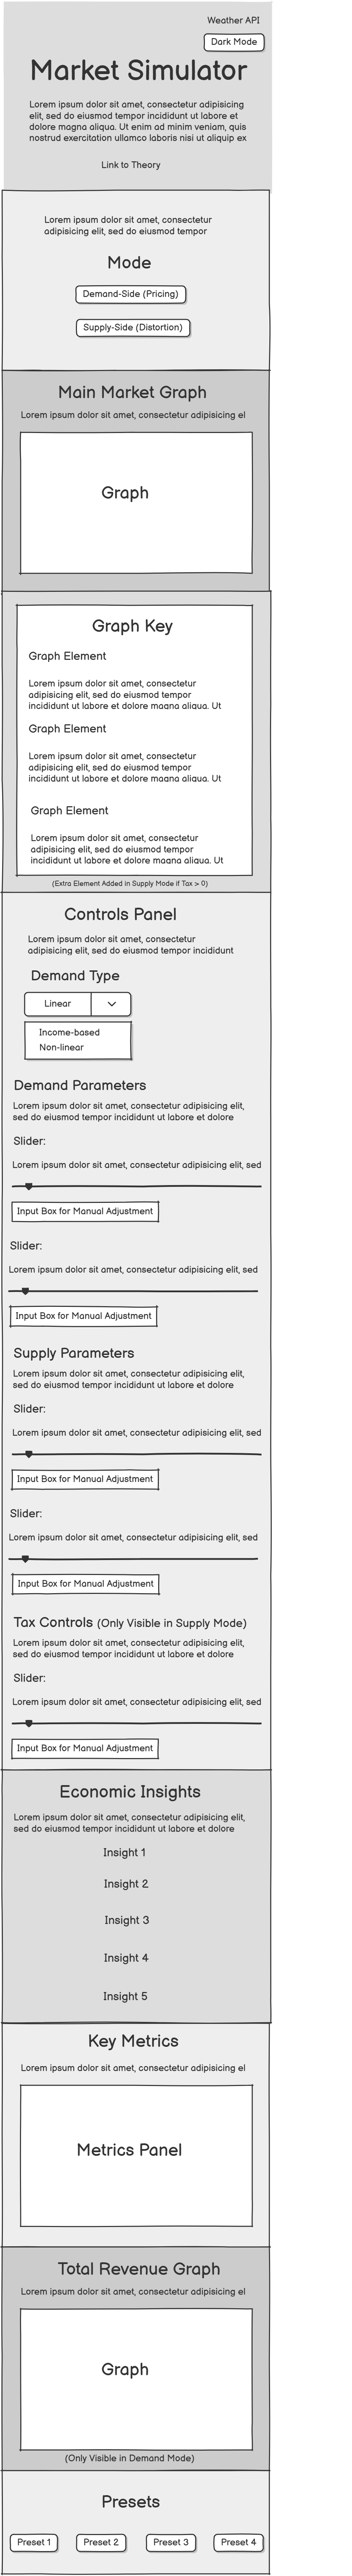
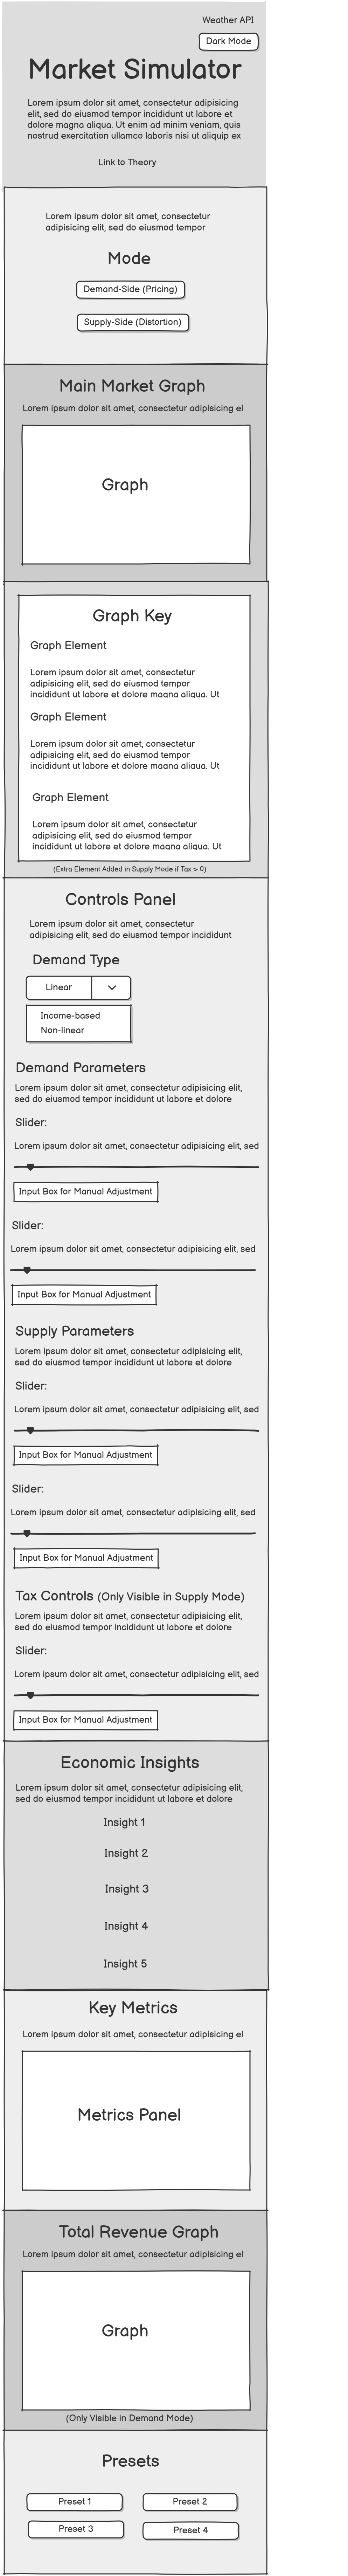
Adjusted Layout for Mobile

Changed region(s): [[0.0, 0.0, 0.7895, 0.9997], [0.0, 0.0, 0.0304, 0.0312]]

diff --git a/index.html b/index.html
@@ -54,122 +54,8 @@
                                     welfare areas
                                     dynamically.</p>
                                 <canvas id="marketCanvas" width="600" height="400"></canvas>
+                                <div class="insights-key" aria-hidden="false"></div>
                                 <section class="insights-panel">
-                                    <div class="insights-key" aria-hidden="false"></div>
-                                    <section class="controls-panel mobile-controls">
-                                        <h2 class="section-heading">Controls</h2>
-                                        <p>Use these controls to adjust parameters and observe how the market changes in
-                                            real
-                                            time.</p>
-                                        <div class="demand-controls">
-                                            <div class="demand-type">
-                                                <label for="demandType">Demand Type:</label>
-                                                <p>Select the type of demand curve to model different consumer
-                                                    behaviours.</p>
-                                                <select id="demandType">
-                                                    <option value="linear">Linear</option>
-                                                    <option value="income">Income-based</option>
-                                                    <option value="nonlinear">Non-linear</option>
-                                                </select>
-                                            </div>
-                                            <div class="demand-parameters">
-                                                <h3>Demand Parameters</h3>
-                                                <p> Adjust these variables to see how outcomes respond to changing market conditions on the demand side.
-                                                </p>
-                                                <div class="demand-linear active">
-                                                    <div class="slider-group">
-                                                        <label for="a">a:</label>
-                                                        <p class="param-desc">Vertical intercept — approximate maximum
-                                                            willingness to pay.</p>
-                                                        <input type="range" id="a" min="0" max="100" value="50">
-                                                        <input type="number" id="aValue" value="50">
-                                                    </div>
-                                                    <div class="slider-group">
-                                                        <label for="b">b: </label>
-                                                        <p class="param-desc">Slope / price sensitivity — higher values
-                                                            make demand more responsive to price.</p>
-                                                        <input type="range" id="b" min="0" max="10" step="0.1"
-                                                            value="1">
-                                                        <input type="number" id="bValue" value="1">
-                                                    </div>
-                                                </div>
-                                                <div class="demand-income">
-                                                    <div class="slider-group">
-                                                        <label for="income">Income (I):</label>
-                                                        <p class="param-desc">Average consumer income used in
-                                                            income-based demand.</p>
-                                                        <input type="range" id="income" min="0" max="1000" step="10"
-                                                            value="500">
-                                                        <input type="number" id="incomeValue" class="value-input"
-                                                            min="0" max="1000" step="10" value="500">
-                                                    </div>
-                                                    <div class="slider-group">
-                                                        <label for="k">Preference Share (k):</label>
-                                                        <p class="param-desc">Share parameter controlling how strongly
-                                                            income affects demand.</p>
-                                                        <input type="range" id="k" min="0" max="1" step="0.05"
-                                                            value="0.5">
-                                                        <input type="number" id="kValue" class="value-input" min="0"
-                                                            max="1" step="0.05" value="0.5">
-                                                    </div>
-                                                </div>
-                                                <div class="demand-nonlinear">
-                                                    <div class="slider-group">
-                                                        <label for="aNonlinear">Scale (a):</label>
-                                                        <p class="param-desc">Scale parameter for nonlinear demand;
-                                                            shifts the curve horizontally.</p>
-                                                        <input type="range" id="aNonlinear" min="0" max="100" step="1"
-                                                            value="50">
-                                                        <input type="number" id="aNonlinearValue" class="value-input"
-                                                            min="0" max="100" step="1" value="50">
-                                                    </div>
-                                                    <div class="slider-group">
-                                                        <label for="bNonlinear">Price Sensitivity (b):</label>
-                                                        <p class="param-desc">Controls curvature; higher values increase
-                                                            sensitivity in nonlinear demand.</p>
-                                                        <input type="range" id="bNonlinear" min="0" max="1" step="0.05"
-                                                            value="0.2">
-                                                        <input type="number" id="bNonlinearValue" class="value-input"
-                                                            min="0" max="1" step="0.05" value="0.2">
-                                                    </div>
-                                                </div>
-                                            </div>
-                                        </div>
-                                        <div class="supply-controls">
-                                            <div class="supply-parameters">
-                                                <h3>Supply Parameters</h3>
-                                                <p>Adjust these variables to see how outcomes respond to changing market
-                                                    conditions on the supply side.</p>
-                                                <div class="slider-group">
-                                                    <label for="c">c:</label>
-                                                    <p class="param-desc">Supply intercept — baseline price component
-                                                        for the supply curve.</p>
-                                                    <input type="range" id="c" min="0" max="100" value="0">
-                                                    <input type="number" id="cValue" value="0">
-                                                </div>
-                                                <div class="slider-group">
-                                                    <label for="d">d: </label>
-                                                    <p class="param-desc">Supply slope — how much quantity supplied
-                                                        responds to price.</p>
-                                                    <input type="range" id="d" min="0" max="5" step="0.1" value="1">
-                                                    <input type="number" id="dValue" value="1">
-                                                </div>
-                                            </div>
-                                            <div class="tax-controls supply-only">
-                                                <h3>Tax Controls</h3>
-                                                <p>Apply a tax to see how it affects prices, quantities, and efficiency.
-                                                </p>
-                                                <div class="slider-group">
-                                                    <label for="t">Tax (t):</label>
-                                                    <p class="param-desc">Per-unit tax applied to the market; raises
-                                                        consumer price and/or reduces producer price.</p>
-                                                    <input type="range" id="t" min="0" max="50" step="0.1" value="0">
-                                                    <input type="number" id="tValue" min="0" max="50" step="0.1"
-                                                        value="0">
-                                                </div>
-                                            </div>
-                                        </div>
-                                    </section>
                                     <h2 class="section-heading">Economic Insights</h2>
                                     <p>Automated insights explain the economic meaning of the results shown above.</p>
                                     <div class="insights-content"></div>

diff --git a/assets/css/style.css b/assets/css/style.css
@@ -131,6 +131,7 @@ canvas {
     margin-top: 20px;
     margin-left: auto;
     margin-right: auto;
+    margin-bottom: 30px;
 
     border: 1px solid #e2e8f0;
     border-radius: 8px;
@@ -689,33 +690,54 @@ body.dark-mode small {
     color: #cbd5e1 !important;
 }
 
-/* =========================================================
-   MOBILE CONTROLS
-========================================================= */
-
-.mobile-controls {
-    display: none !important;
-}
-
-@media (max-width: 991px) {
-    .mobile-controls {
-        display: block !important;
-    }
-
-    .main-section > .main-grid .col-lg-4 .controls-panel {
-        display: none !important;
-    }
-}
-
-@media (max-width: 991px) {
-    .canvas-text {
-        display: none;
-    }
-}
-
 body.dark-mode .weather-box {
     background: transparent !important;
     border: none !important;
     box-shadow: none !important;
     padding: 0 !important;
+}
+
+.insights-panel {
+    margin-top: 10px;
+    padding-top: 0;
+}
+
+@media (max-width: 991px) {
+    .row.flex-lg-row-reverse {
+        display: flex;
+        flex-direction: column;
+    }
+
+    .col-lg-8,
+    .col-lg-4 {
+        width: 100%;
+    }
+
+    .graph-panel {
+        display: flex;
+        flex-direction: column;
+    }
+
+    .canvas-text {
+        order: 1;
+    }
+
+    #marketCanvas {
+        order: 2;
+    }
+
+    .insights-key {
+        order: 3;
+        margin-top: 12px;
+        margin-bottom: 16px;
+    }
+
+    .controls-panel {
+        margin-top: 0;
+        margin-bottom: 28px;
+    }
+
+    .insights-panel {
+        margin-top: 0;
+    }
 }

diff --git a/assets/js/script.js b/assets/js/script.js
@@ -213,7 +213,7 @@ for (let slider of sliders) {
     // when user finishes adjusting (releases the slider), scroll to the graph
    /* slider.addEventListener('change', () => {
         mainSection.scrollIntoView({ behavior: 'smooth' });
-    })*/;
+    });*/
 }
 
 demandType.addEventListener("change", (e) => {